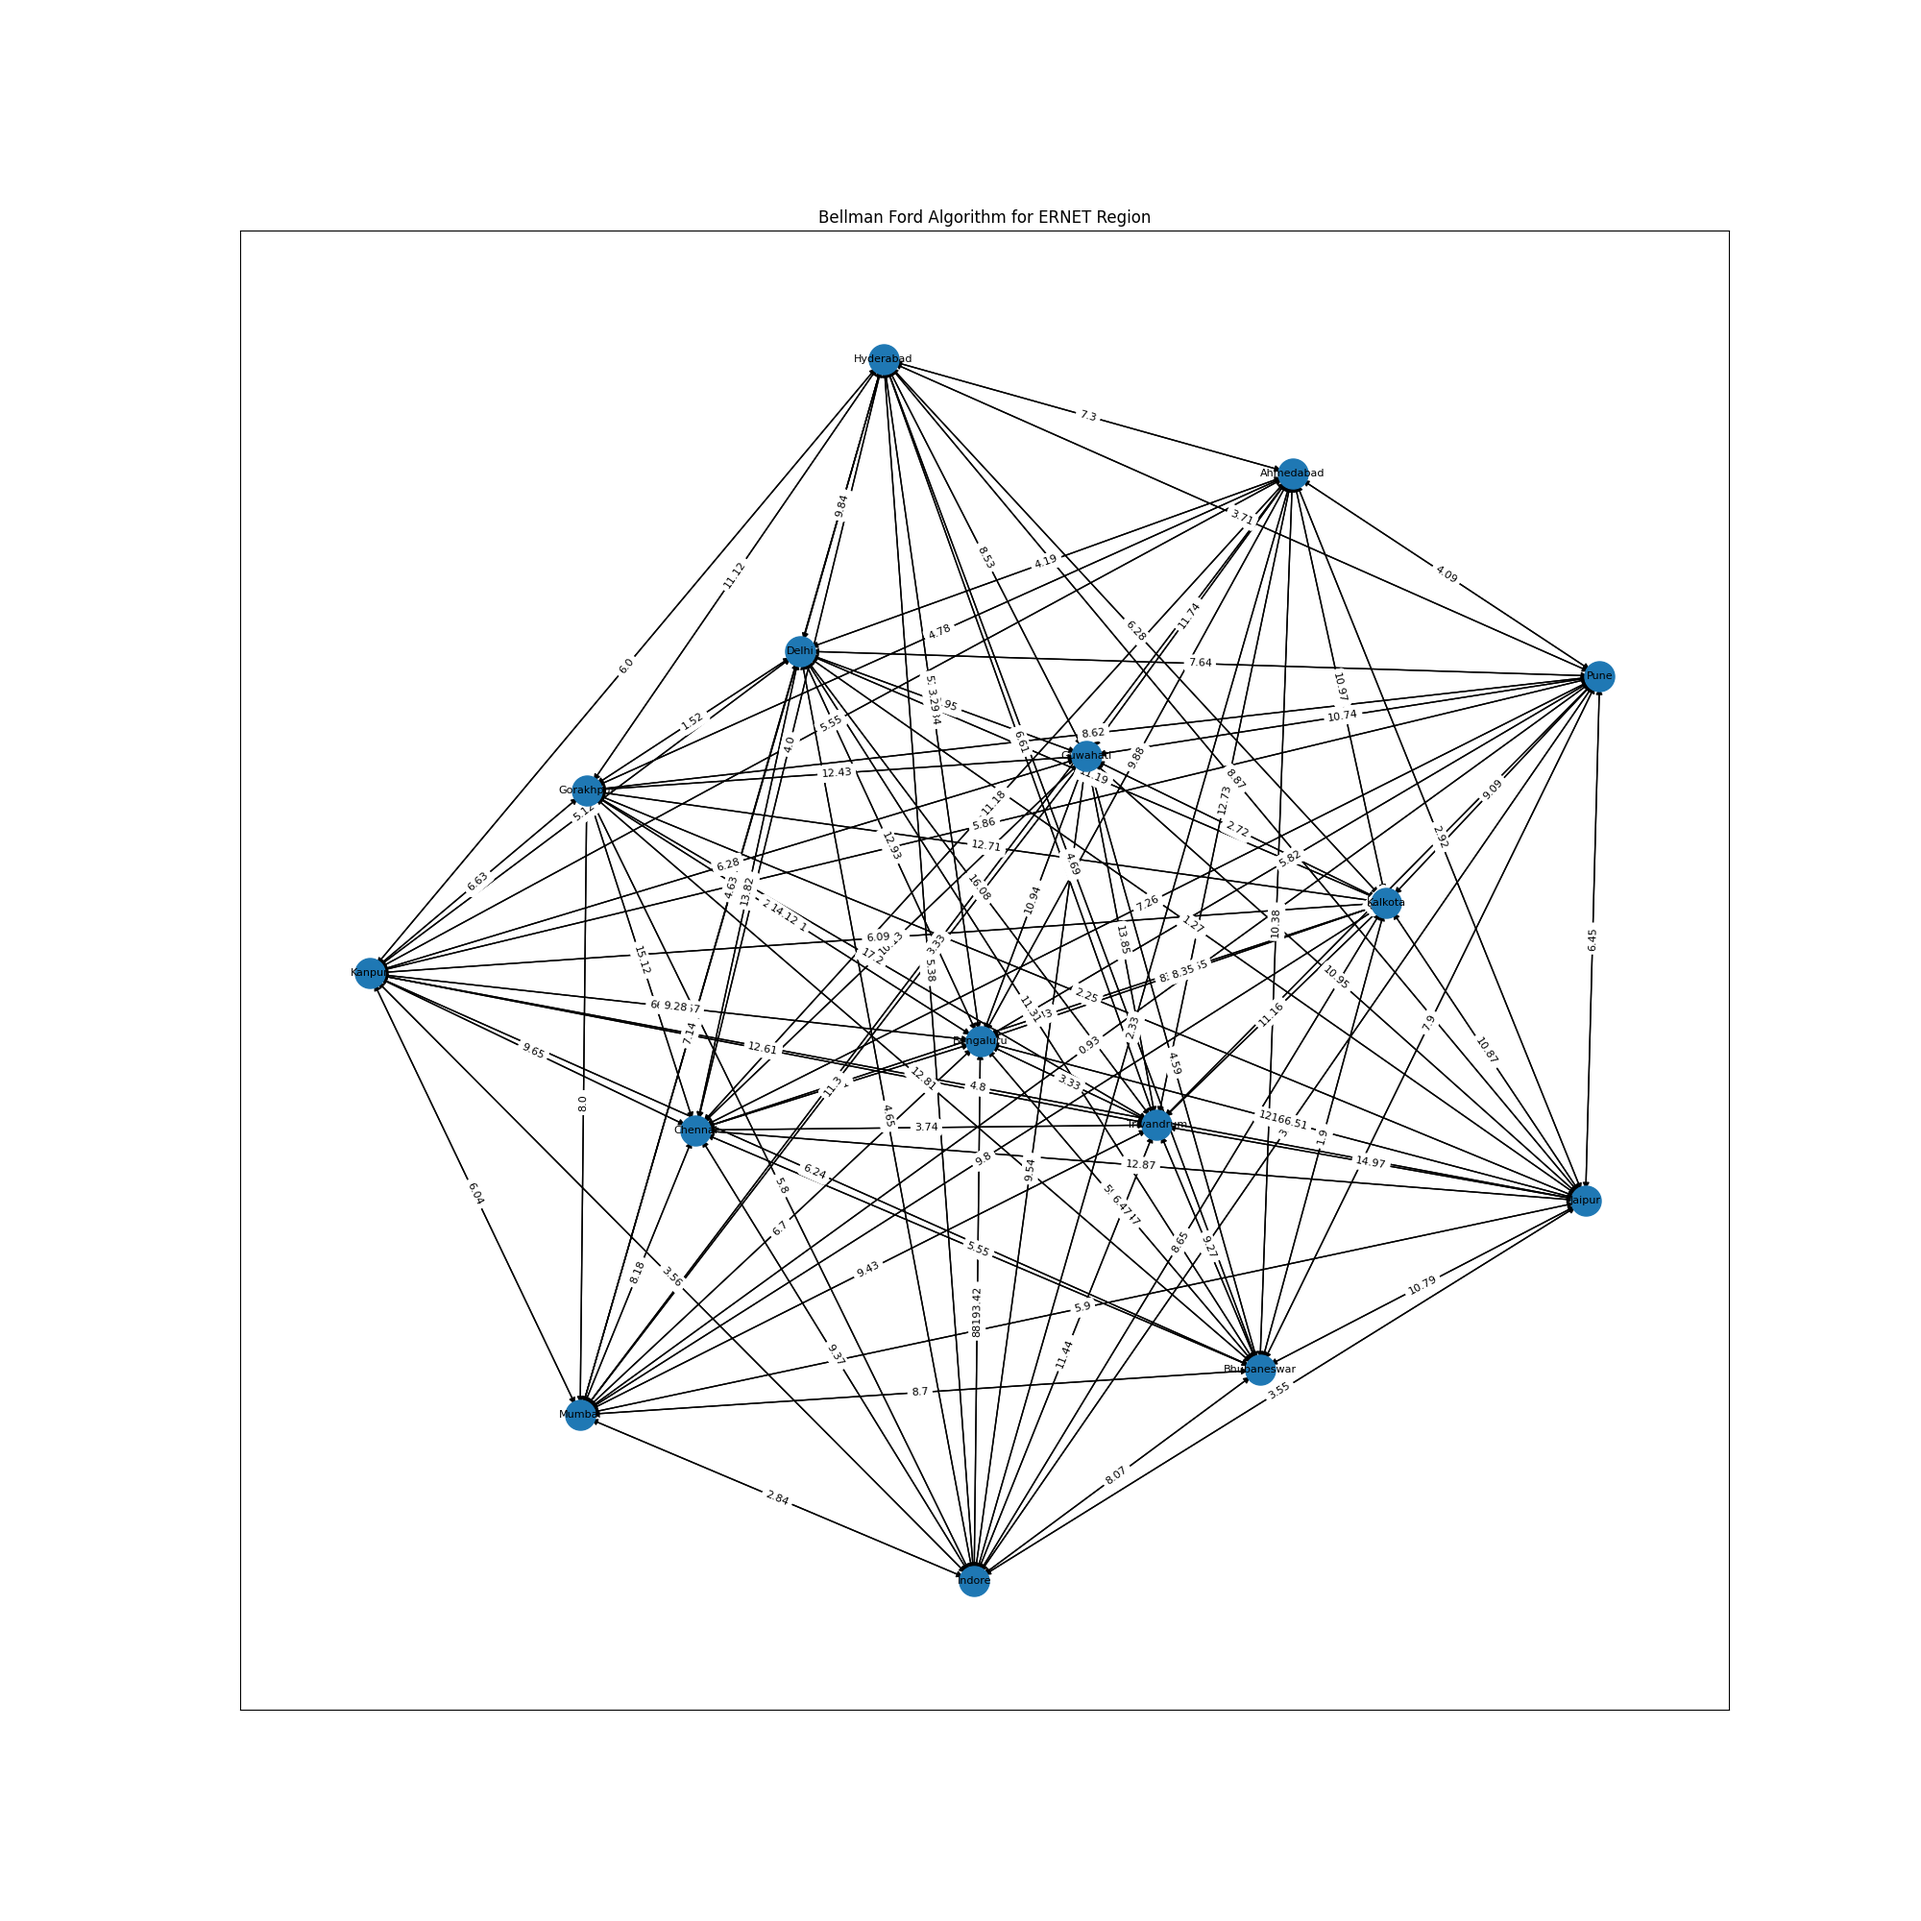
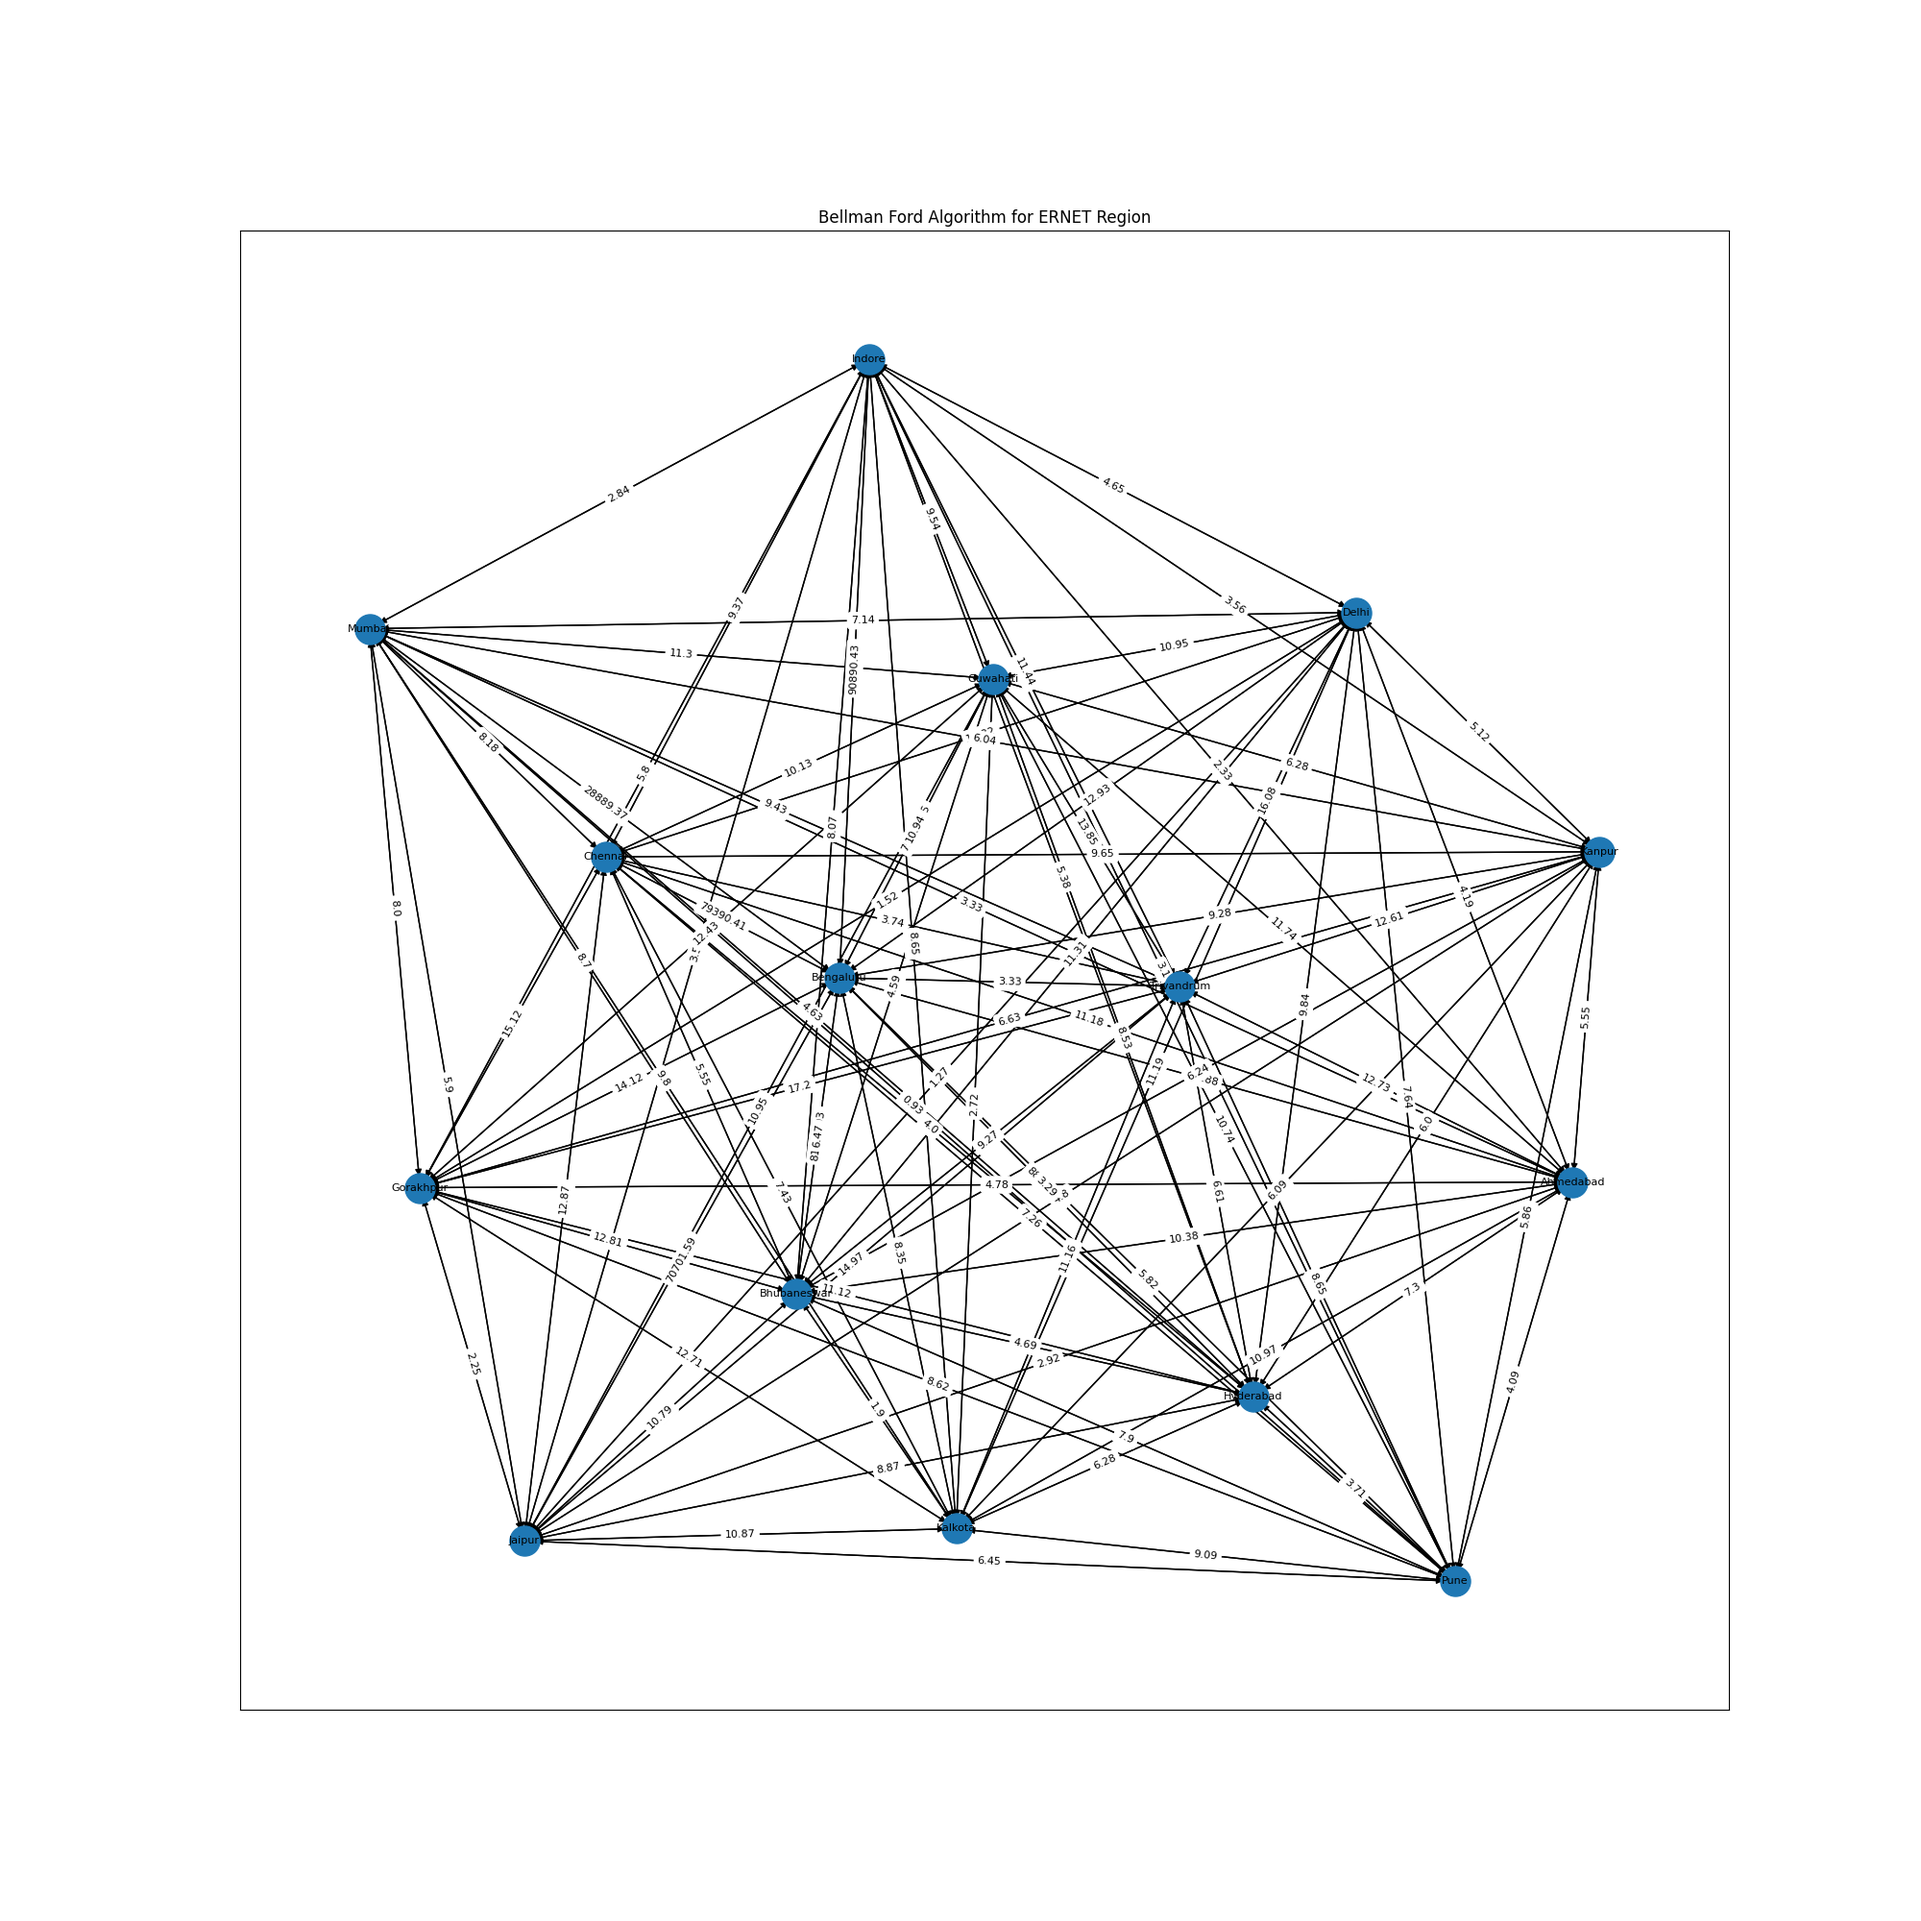
Demo Video

Changed region(s): [[0.186, 0.155, 0.837, 0.837], [0.682, 0.744, 0.775, 0.837]]

diff --git a/bellman.md b/bellman.md
@@ -596,35 +596,35 @@ No. of Nodes: 15
 | Neighbour Name | Latency (ms) |
 | --- | --- |
 | Pune | 5.82 |
-| Indore | 88193.42 |
+| Indore | 90890.43 |
 | Trivandrum | 3.33 |
-| Mumbai | 6.7 |
+| Mumbai | 28889.37 |
 | Ahmedabad | 9.88 |
-| Jaipur | 12166.51 |
-| Chennai | 1.91 |
+| Jaipur | 70701.59 |
+| Chennai | 79390.41 |
 | Delhi | 12.93 |
-| Guwahati | 10.94 |
-| Gorakhpur | 20799.21 |
-| Kanpur | 66067.57 |
-| Kalkota | 83748.55 |
-| Bhubaneswar | 59165.47 |
-| Hyderabad | 51734.34 |
+| Guwahati | 75039.75 |
+| Gorakhpur | 14.12 |
+| Kanpur | 9.28 |
+| Kalkota | 8.35 |
+| Bhubaneswar | 81238.03 |
+| Hyderabad | 88038.05 |
 
 ## Shortest Path from Source Node to all Nodes
 | Node Name | Old Distance (ms) | New Distance (ms) | Path |
 | --- | --- | --- | --- |
 | Pune | 5.82 | 5.82 | Pune |
-| Indore | 88193.42 | 8.92 | Pune -> Indore |
+| Indore | 90890.43 | 8.92 | Pune -> Indore |
 | Trivandrum | 3.33 | 3.33 | Trivandrum |
-| Mumbai | 6.7 | 6.7 | Mumbai |
+| Mumbai | 28889.37 | 6.75 | Pune -> Mumbai |
 | Ahmedabad | 9.88 | 9.88 | Ahmedabad |
-| Jaipur | 12166.51 | 12.27 | Pune -> Jaipur |
-| Chennai | 1.91 | 1.91 | Chennai |
+| Jaipur | 70701.59 | 12.27 | Pune -> Jaipur |
+| Chennai | 79390.41 | 7.07 | Trivandrum -> Chennai |
 | Bengaluru | 0 | 0 |  |
 | Delhi | 12.93 | 12.93 | Delhi |
-| Guwahati | 10.94 | 10.94 | Guwahati |
-| Gorakhpur | 20799.21 | 14.44 | Pune -> Gorakhpur |
-| Kanpur | 66067.57 | 11.56 | Chennai -> Kanpur |
-| Kalkota | 83748.55 | 9.34 | Chennai -> Kalkota |
-| Bhubaneswar | 59165.47 | 7.46 | Chennai -> Bhubaneswar |
-| Hyderabad | 51734.34 | 5.91 | Chennai -> Hyderabad |
+| Guwahati | 75039.75 | 11.07 | Kalkota -> Guwahati |
+| Gorakhpur | 14.12 | 14.12 | Gorakhpur |
+| Kanpur | 9.28 | 9.28 | Kanpur |
+| Kalkota | 8.35 | 8.35 | Kalkota |
+| Bhubaneswar | 81238.03 | 10.25 | Kalkota -> Bhubaneswar |
+| Hyderabad | 88038.05 | 9.53 | Pune -> Hyderabad |

diff --git a/README.md b/README.md
@@ -10,6 +10,10 @@ May 2022 - July 2022
 
 ## [Link to the Website](https://connectxcellence.onrender.com/)
 
+## Demonstration Video
+
+[![Demonstration Video](./demo/thumbnail.png)](https://youtu.be/J6Su5GhZxnU)
+
 ## Project Components
 
 ### NodesScript.py
